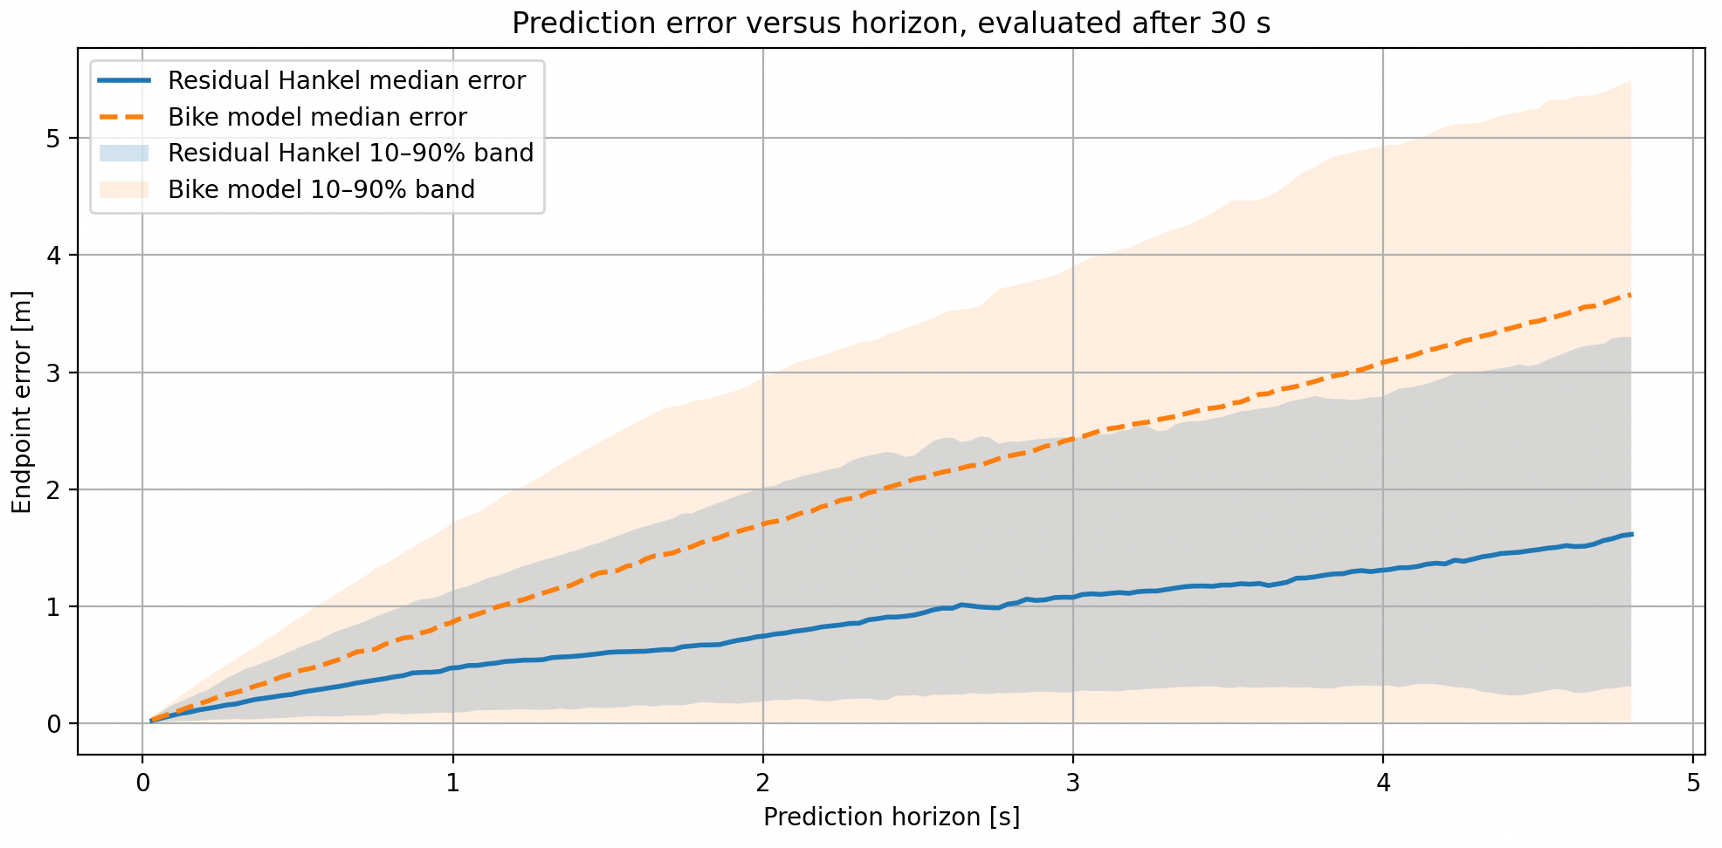
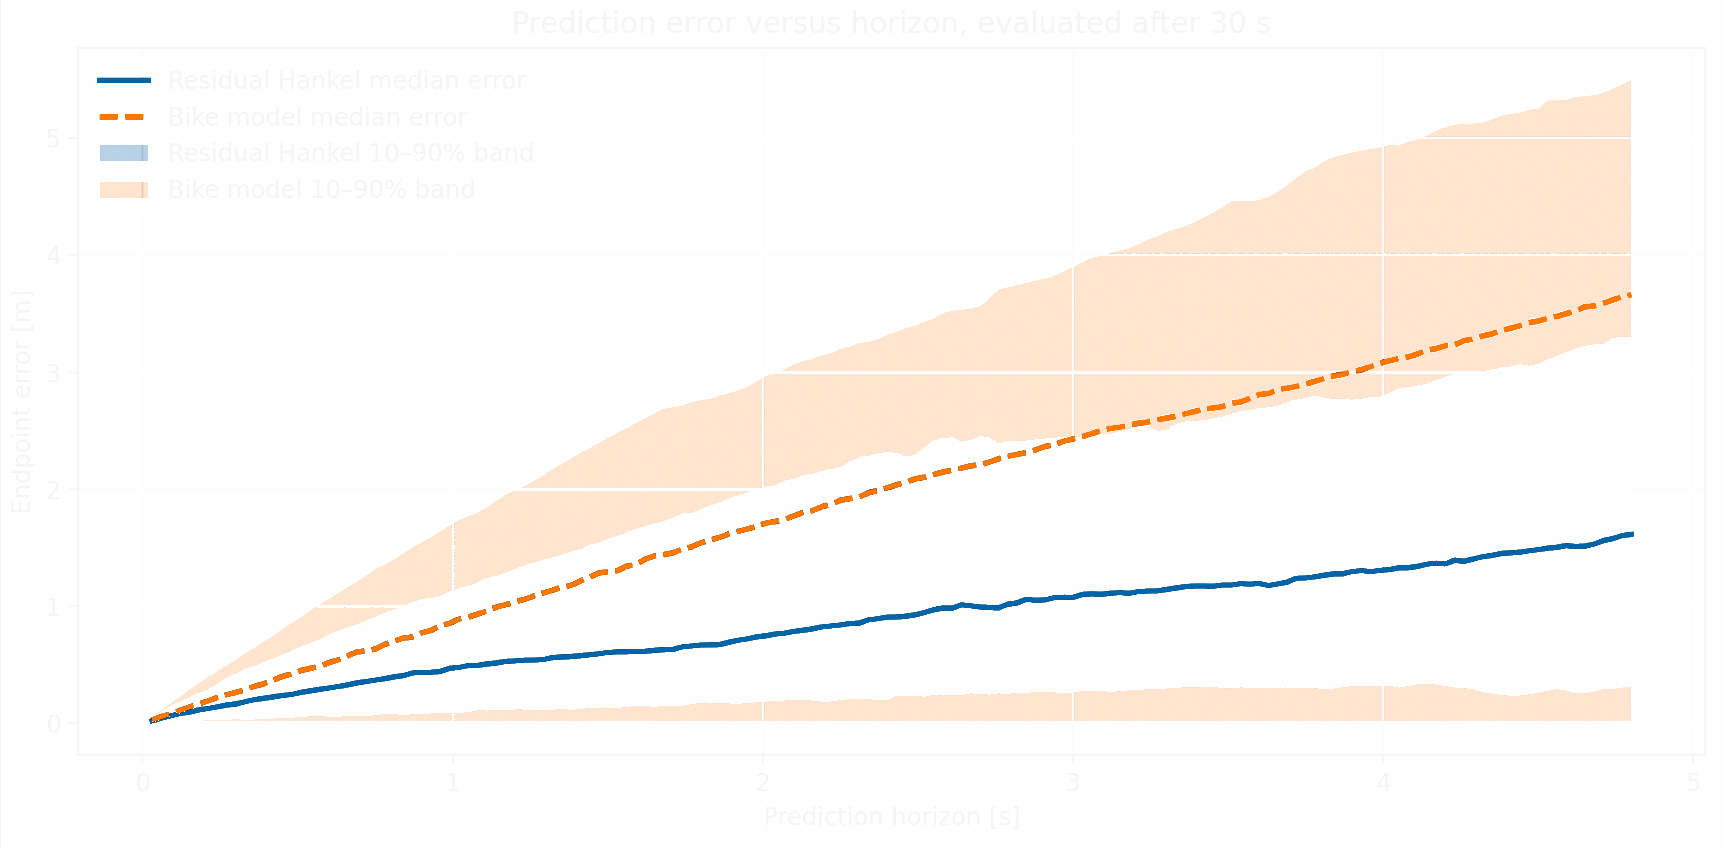
Convert prediction graphs to transparent dark mode with white text and transparent background

diff --git a/style.css b/style.css
@@ -184,9 +184,7 @@ a:hover {
 .graph-card {
     border-radius: 14px;
     overflow: hidden;
-    background: #ffffff;
-    box-shadow: 0 10px 32px rgba(0, 0, 0, 0.45);
-    border: 1px solid rgba(255, 255, 255, 0.08);
+    background: transparent;
 }
 
 .graph-card img {
